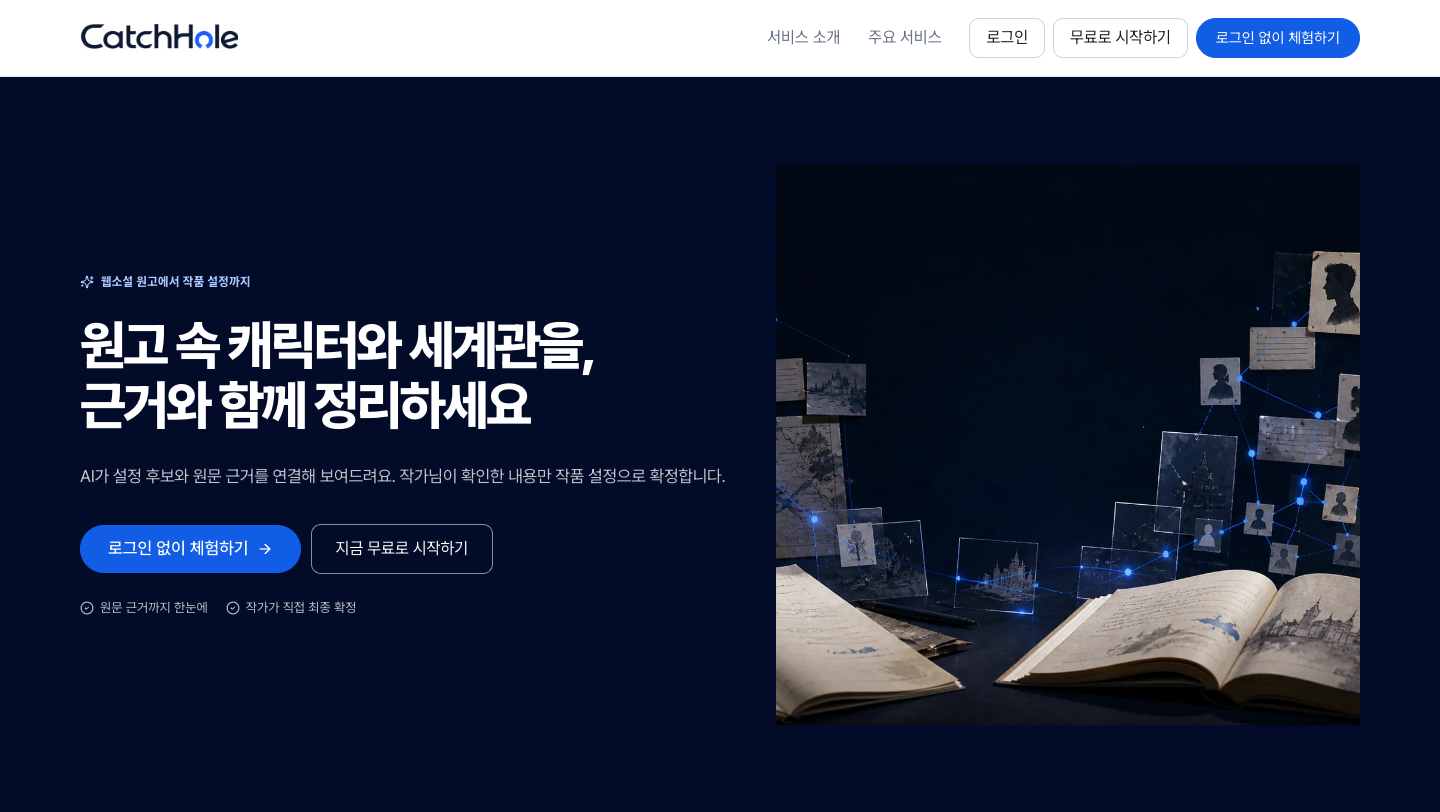
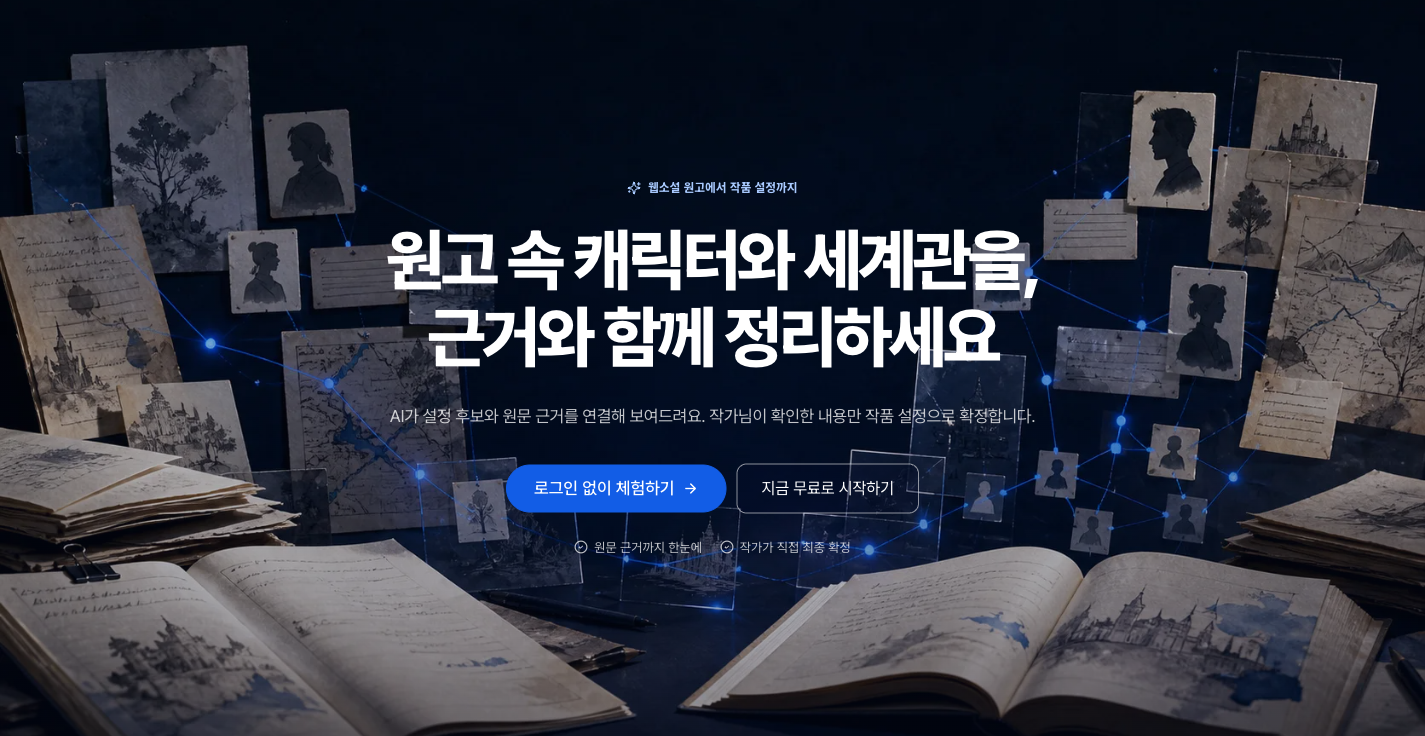
docs(landing): 승인 Hero 자료를 배경 연출로 복원한다
- k7pzFp 편집 원본을 Hero Backdrop과 중앙 카피 구조로 되돌리고 실제 브라우저 전체·Hero 캡처를 같은 구현에서 다시 생성한다.

- Auth 요구사항과 화면 흐름은 전용 에디토리얼 배경 Hero를 명시하되 모바일 로그인 유지 계약은 그대로 보존한다.

- 제품 오너의 교정을 OmD pending preference로 기록하고 canonical DESIGN.md 반영은 정식 fold-in 단계와 분리한다.

diff --git a/docs/data-requirements/auth.md b/docs/data-requirements/auth.md
@@ -52,7 +52,7 @@
 
 **1. 화면에 표시할 데이터**
 - 상단 고정 헤더: CatchHole 로고, 서비스 소개·주요 서비스 앵커, 로그인·무료 시작 보조 버튼, `로그인 없이 체험하기` 주 버튼
-- Hero: 넓은 화면에서는 카피와 CatchHole 전용 에디토리얼 이미지를 좌우로 분할하고, 좁은 화면에서는 카피 다음에 이미지를 배치한다. `웹소설 원고에서 작품 설정까지` 배지, `원고 속 캐릭터와 세계관을, 근거와 함께 정리하세요` 제목, 서비스 설명, 로그인 없는 체험 주 버튼·무료 시작 보조 버튼, 원문 근거·작가 확정 신뢰 요소를 유지한다.
+- Hero: CatchHole 전용 에디토리얼 이미지를 섹션 전체 배경으로 사용하고 중앙 카피와 어두운 오버레이를 겹친다. `웹소설 원고에서 작품 설정까지` 배지, `원고 속 캐릭터와 세계관을, 근거와 함께 정리하세요` 제목, 서비스 설명, 로그인 없는 체험 주 버튼·무료 시작 보조 버튼, 원문 근거·작가 확정 신뢰 요소를 유지한다.
 - 8단계 제품 흐름: 작품 → 업로드 → 분석 → 후보 → 확정 → 설정 → 상세 → 이력 순서와 단계별 서로 다른 실제 제품 장면. 데스크톱에서는 활성 장면과 세로 레일을 한 화면에 펼치는 아코디언, 태블릿·모바일에서는 단일 활성 장면과 가로 단계 탭으로 표시
 - 핵심 기능 요약: 캐릭터·세계관 후보, 원문 근거 연결, 작가 최종 확정
 - 주요 서비스 카탈로그: 데스크톱 2열·모바일 1열 목록으로 작품 업로드, 캐릭터·세계관 자동 추출, 세계관 DB, 캐릭터 DB, 원문 근거를 설명. 캐릭터 관계도·설정 챗봇·오류 리포트는 같은 목록에서 `업데이트 예정`으로 명시하고 현재 기능으로 오인할 링크나 실행 액션을 제공하지 않음

diff --git a/docs/screen-flow.md b/docs/screen-flow.md
@@ -43,7 +43,7 @@ Pencil은 아래 보드에서 실제 화면과 전환 설명을 함께 보여줍
 
 | 화면 이름 | 경로 (클릭 시 이동) | 무슨 화면인가 |
 | --- | --- | --- |
-| 랜딩 | [`/landing`](https://catch-hole.vercel.app/landing) | 로그인 없는 공개 데모를 주 CTA로 안내하고, 카피·이미지 분할 Hero와 8단계 실제 제품 아코디언, 2열 서비스 카탈로그로 기능 범위를 소개하는 Theme V2 페이지. 모바일에서도 로그인 진입점을 유지한다. |
+| 랜딩 | [`/landing`](https://catch-hole.vercel.app/landing) | 로그인 없는 공개 데모를 주 CTA로 안내하고, 전용 에디토리얼 배경 Hero와 8단계 실제 제품 아코디언, 2열 서비스 카탈로그로 기능 범위를 소개하는 Theme V2 페이지. 모바일에서도 로그인 진입점을 유지한다. |
 | 로그인 / 회원가입 | [`/login`](https://catch-hole.vercel.app/login) · [`/signup`](https://catch-hole.vercel.app/signup) | Theme V2 흰색 라우트 모달로 제공하는 이메일·비밀번호 인증·휴대폰 인증과 약관 동의 |
 | **인터랙티브 데모** | [`/demo`](https://catch-hole.vercel.app/demo) | Backend·AI 없이 10문단 fixture 단일 시나리오를 따라 하며 후보 확정·수정·제외, 5명 캐릭터 상세·변화 이력·근거, 세계관 설정 근거까지 직접 확인하는 공개 화면 |
 | 작품 선택 | [`/works`](https://catch-hole.vercel.app/works) | Theme V2 파일럿으로 작업할 작품을 고르는 진입점 |

diff --git a/.omd/preferences.md b/.omd/preferences.md
@@ -89,3 +89,18 @@ source_context: "src/app/components/catchhole/SLanding.tsx"
 ```
 
 Landing capability sections should present the product's diverse service surface in a structured two-column catalog instead of reducing it to a generic sequential workflow.
+
+## 2026-08-24T04:50:04.000Z — approved-landing-hero-uses-full-section-ba
+
+```omd-meta
+id: pref_mt6rbzpu_23bdaa61
+timestamp: 2026-08-24T04:50:04.000Z
+scope: layout
+signal: user-correction
+confidence: explicit
+status: pending
+source_agent: codex
+source_context: "design/catchhole.pen#omdLandingFullPageActive"
+```
+
+The approved landing hero uses its purpose-built artwork as a full-section background with centered copy; do not replace it with a cropped standalone split-column image.
